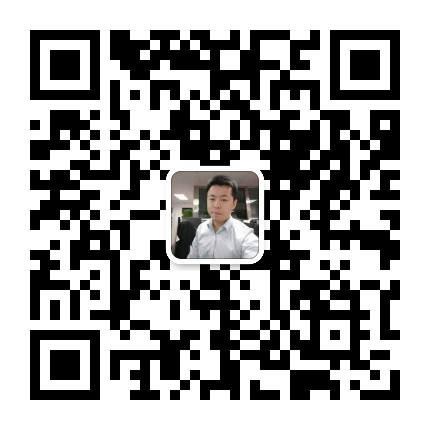
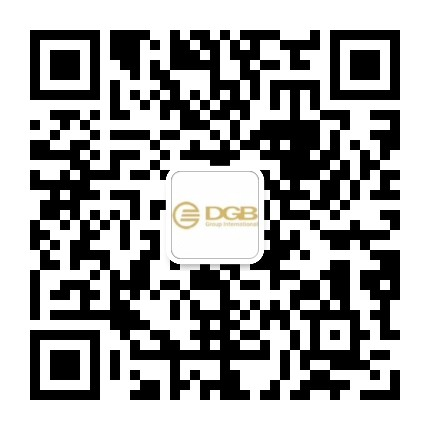
dbg

diff --git a/src/main/webapp/mbg/index.html b/src/main/webapp/mbg/index.html
@@ -100,10 +100,6 @@
             transition: all .5s ease;
             overflow: hidden;
         }
-
-        .newsDetail {
-
-        }
     </style>
 </head>
 <!-- END HEAD -->
@@ -142,13 +138,22 @@
                         <a href="#intro">首页</a>
                     </li>
                     <li class="page-scroll">
-                        <a href="#about">关于我们</a>
+                        <a href="#about">集团简介</a>
                     </li>
                     <li class="page-scroll">
-                        <a href="#features">最新活动</a>
+                        <a href="#jin10">财经数据</a>
+                    </li>
+                    <!--<li class="page-scroll">
+                        <a href="#news">公司动态</a>
+                    </li>-->
+                    <li class="page-scroll">
+                        <a href="#rule">产品规则</a>
                     </li>
                     <li class="page-scroll">
-                        <a href="#team">交易平台</a>
+                        <a href="#team">软件下载</a>
+                    </li>
+                    <li class="page-scroll">
+                        <a href="#">期货论坛</a>
                     </li>
                     <li class="page-scroll">
                         <a href="#clients">联系我们</a>
@@ -225,14 +230,16 @@
             <div class="item carousel-item-one" style="background: url(images/bg_slider2.jpg) no-repeat center;">
                 <div class="container" style="text-align: center;">
 
-                    <a href="#" class="animate-delay btn-brd-white " data-animation="animated fadeInUp">立即开户</a>
+                    <a href="http://c.dgbx.ae/index.php?g=user&m=register&a=index&rc=d6166" target="_blank"
+                       class="animate-delay btn-brd-white " data-animation="animated fadeInUp">立即开户</a>
                 </div>
             </div>
 
             <div class="item carousel-item-one" style="background: url(images/bg_slider3.jpg) no-repeat center;">
                 <div class="container" style="text-align: center;">
 
-                    <a href="#" class="animate-delay btn-brd-white " data-animation="animated fadeInUp">立即开户</a>
+                    <a href="http://c.dgbx.ae/index.php?g=user&m=register&a=index&rc=d6166" target="_blank"
+                       class="animate-delay btn-brd-white " data-animation="animated fadeInUp">立即开户</a>
                 </div>
             </div>
             <!-- Second slide -->
@@ -245,9 +252,6 @@
 
 <!-- BEGIN MAIN LAYOUT -->
 <div class="page-content">
-    <!-- SUBSCRIBE BEGIN -->
-
-    <!-- SUBSCRIBE END -->
 
     <!-- BEGIN ABOUT SECTION -->
     <section id="about">
@@ -302,7 +306,7 @@
                 <div class="col-sm-6">
                     <div class="services sm-margin-bottom-100">
                         <div align="center">
-                            <video controls="controls" width="550" height="310">
+                            <video controls width="550" height="310">
                                 <source src="images/DGB.mp4" type="video/mp4"/>
                                 您的浏览器不支持该视频播放，请升级最新的浏览器
                             </video>
@@ -310,9 +314,13 @@
                         </div>
                     </div>
                 </div>
-
             </div>
         </div>
+        <!-- Services END -->
+    </section>
+    <!-- END ABOUT SECTION -->
+
+    <section id="jin10">
         <div class="container service-bg" style="padding-bottom: 60px;">
             <div style="float: left;">
                 <iframe frameborder="0" width="520" height="630" scrolling="yes"
@@ -323,16 +331,12 @@
                         src="https://rili-d.jin10.com/open.php?fontSize=14px&theme=primary"></iframe>
             </div>
         </div>
-        <!-- Services END -->
     </section>
-    <!-- END ABOUT SECTION -->
 
-    <!-- BEGIN FEATURES SECTION -->
-    <section id="features">
-        <!-- Features BEGIN -->
+    <!--<section id="news">
         <div class="features-bg">
             <div class="container">
-                <!-- Features -->
+                &lt;!&ndash; Features &ndash;&gt;
                 <div class="row">
                     <div class="col-md-12">
                         <div class="features">
@@ -362,25 +366,33 @@
                             </div>
                         </div>
                     </div>
-                </div><!-- //end row -->
-                <!-- End Features -->
+                </div>
             </div>
         </div>
-        <!-- Features END -->
-    </section>
+    </section>-->
     <!-- END FEATURES SECTION -->
-    <div class="col-sm-12">
-        <div class="services sm-margin-bottom-100">
-            <h2 align="center" style="text-align:center;">产品规则</h2>
-            <div align="center">
-                <p><img src="images/about1.jpg" alt="" width="60%" class="icon-share-alt"></p>
-                <p>&nbsp;</p>
-                <p>&nbsp;</p>
-                <p>&nbsp;</p>
-                <p>&nbsp;</p>
+    <section id="rule">
+        <!-- Team BEGIN -->
+        <div class="service-bg parallax">
+            <div class="container">
+                <div>
+                    <h2 align="center" style="text-align:center;">产品规则</h2>
+                </div>
+                <div class="row">
+                    <div class="col-sm-12">
+                        <div class="services sm-margin-bottom-100">
+                            <div align="center">
+                                <p><img src="images/about1.jpg" alt="" width="85%" class="icon-share-alt"></p>
+                                <p>&nbsp;</p>
+                            </div>
+                        </div>
+                    </div>
+                </div>
             </div>
         </div>
-    </div>
+        <!-- Team END -->
+    </section>
+
     <!-- BEGIN TEAM SECTION -->
     <section id="team">
         <!-- Team BEGIN -->
@@ -391,7 +403,6 @@
                     <p>
                         信管家是国内主流的期货、证券及外汇行情显示软件，支持国内、国际期货、金融指数、外汇、期权仿真等市场的实时行情及图表显示，支持24小时全球品种看盘需求。可支持iOS及Android移动系统。投资者可以随时随地通过智能手机或平板电脑观看市场最新动态、下单交易及管理交易账户，时刻掌控投资先机。</p>
                 </div><!-- //end heading -->
-
                 <div class="row">
                     <div class="col-sm-12">
                         <div class="services sm-margin-bottom-100">
@@ -406,8 +417,6 @@
                         </div>
                     </div>
                 </div>
-
-
             </div>
         </div>
         <!-- Team END -->
@@ -422,16 +431,25 @@
     <section id="clients">
         <div class="portfolio">
             <div class="container">
-
                 <div class="row">
                     <div class="col-sm-12">
                         <div class="services sm-margin-bottom-100">
-
                             <h2>联系我们</h2>
                             <p>DGB Group International CMCC星期一至星期五开盘日24小时服务, 请随时联系我们</p>
                         </div>
                     </div>
                 </div>
+                <div class="row">
+                    <div class="col-sm-12">
+                        <div class="services sm-margin-bottom-100">
+                            <p>杭州江干区财富金融中心B座2307</p>
+                            <p>周一至周五 9:00-18:00</p>
+                            <p> +86 15669073981</p>
+                            <p>1815910509@qq.com</p>
+                        </div>
+                    </div>
+                </div>
+
 
                 <div class="row" style="margin-top:20px;">
 
@@ -462,20 +480,6 @@
 
                         </div>
                     </div>-->
-                    <div class="col-sm-12">
-                        <div class="services sm-margin-bottom-100">
-
-                            <ul>
-                                <li>杭州江干区财富金融中心B座2307</li>
-                                <li>周一至周五 9:00-18:00</li>
-                                <li> +86 15868417844</li>
-                                <li>1392109438@qq.com</li>
-                            </ul>
-
-
-                        </div>
-                    </div>
-
                 </div>
             </div>
         </div>
@@ -508,9 +512,9 @@
                     <div class="col-sm-4">
                         <div class="heading-left-light">
                             <h3 style="color:#fff;">联系我们</h3>
-                            <p>汪经理</p>
-                            <p>+86 15868417844（V）</p>
-                            <p>QQ:1392109438</p>
+                            <p>刘经理</p>
+                            <p>+86 15669073981（V）</p>
+                            <p>QQ:1815910509</p>
                         </div>
                     </div>
                 </div><!-- //end row -->
@@ -544,11 +548,11 @@
     <div class="yb_bar">
         <ul>
             <li class="yb_top">返回顶部</li>
-            <li class="yb_phone">15868417844</li>
+            <li class="yb_phone">15669073981</li>
             <li class="yb_QQ">
-                <a href="tencent://Message/?Uin=1392109438" title="即刻发送您的需求">在线开户</a>
+                <a href="tencent://Message/?Uin=1815910509" title="即刻发送您的需求">在线开户</a>
             </li>
-            <li class="yb_ercode" style="height: 53px;text-align: center;">经纪人二维码 <br>
+            <li class="yb_ercode" style="height: 53px;text-align: center;">客服二维码 <br>
                 <img class="hd_qr" src="images/qrcode.jpg" style="width:180px;height:160px"
                      alt="联系经纪人">
             </li>
@@ -558,7 +562,7 @@
 
 <div id="newsDetail"
      style="position: fixed; z-index: 999;width: 100%;height: 100%;left: 0;top:9%;display: none;
-     background-color: #f1f1f1;
+     background-color: #f0f0f0;
      padding-top:40px;">
 
     <div style="width: 1000px;height: 600px;

diff --git a/src/main/webapp/mbg/news/news.js b/src/main/webapp/mbg/news/news.js
@@ -35,10 +35,10 @@ function detail(id) {
     var row = $table.bootstrapTable('getRowByUniqueId', id);
     console.info(row);
     var html = row.coverImgUrl != '' ? '<img width="240" height="160" src="' + row.coverImgUrl + '" />' : '';
-    html += '<h4 style="font-size: 18px;font-weight: bold;line-height: 1.5;">标题：' + row.title + '</h4>';
+    html += '<div style="text-align: center;"><h4 style="font-size: 18px;font-weight: bold;line-height: 1.5;">' + row.title + '</h4></div>';
     var s = row.source != null ? row.source.length > 0 ? row.source : '-' : '-';
     // html += '<h6><p>来源：' + s + '</p></h6>';
-    html += '<span class="font-12">创建时间：' + getLocalTime(row.createTime, 4) + '</span>';
+    html += '<span class="font-12">' + getLocalTime(row.createTime, 4) + '</span>';
     // html += '<br/><span class="font-12">置顶：' + booleanCommonFormat(row.topFlag) + '&nbsp;&nbsp;显示：' + booleanCommonFormat(row.showFlag) + '</span>';
     html += '<br/><br/>';
     html += row.content;
